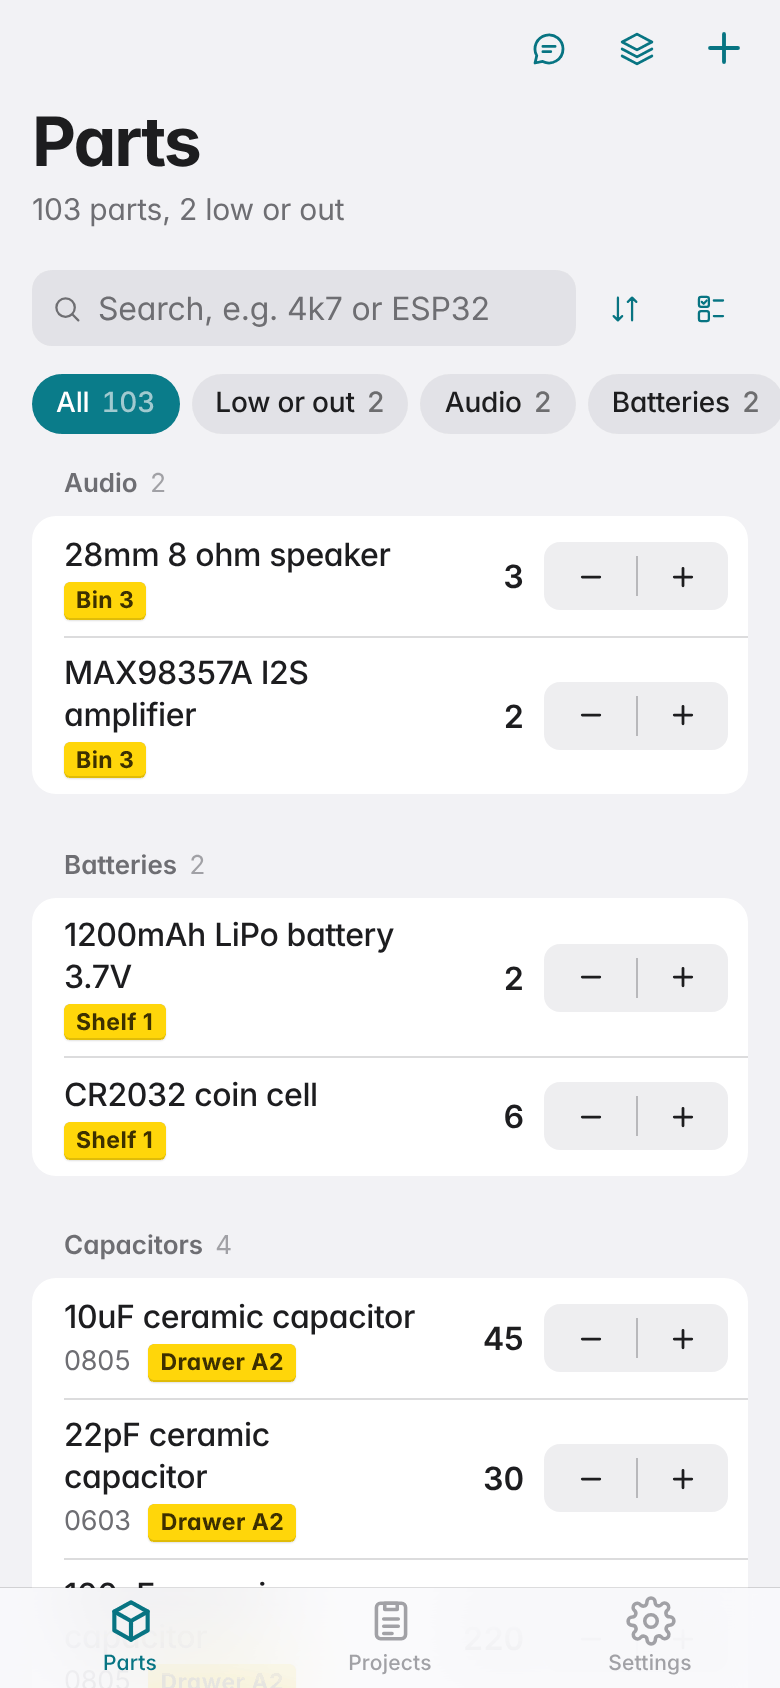
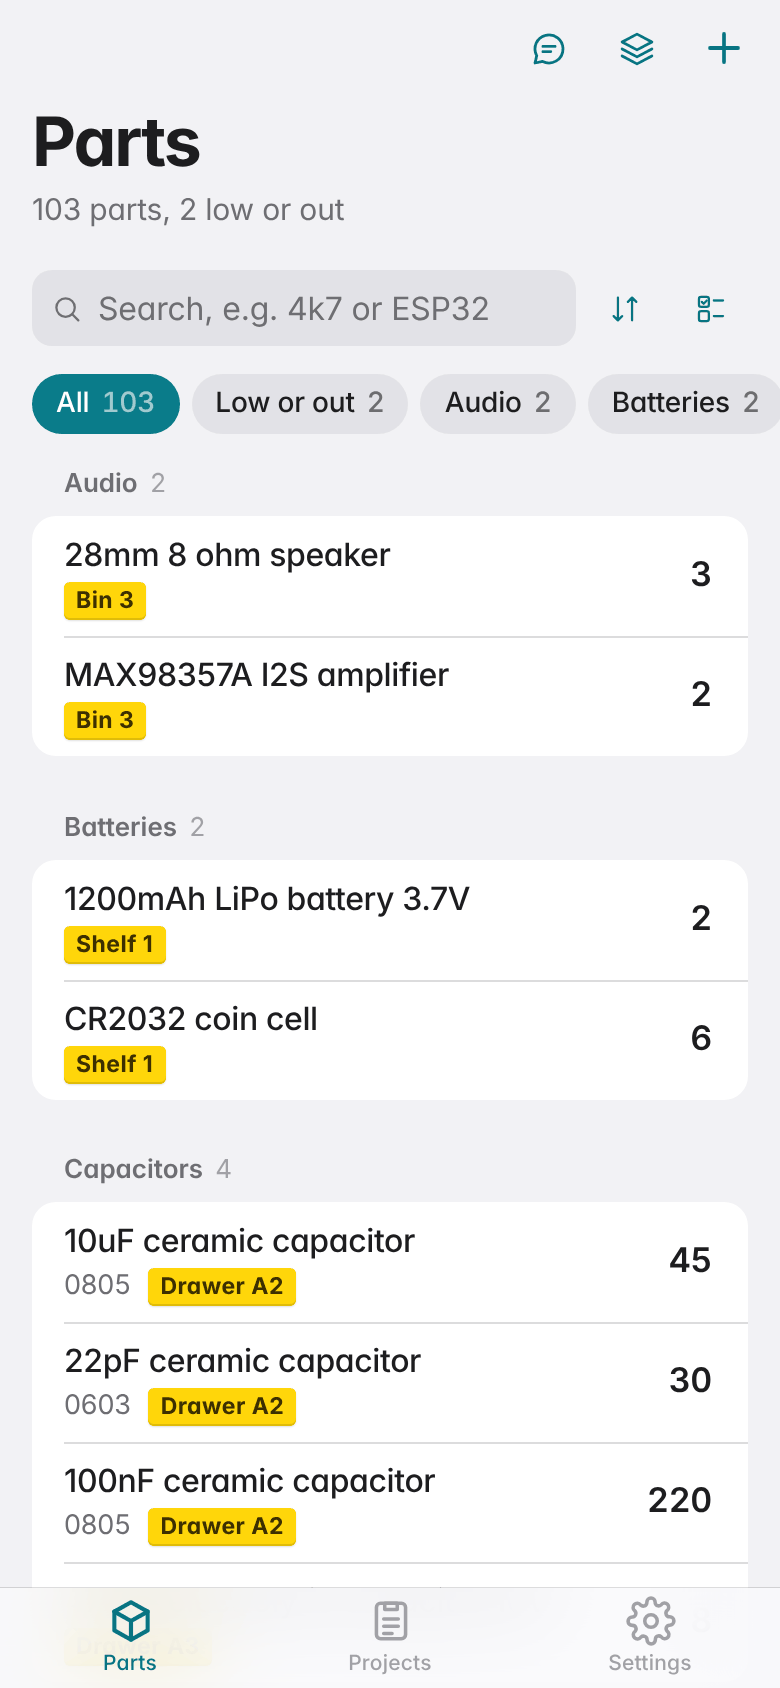
Parts list: just the number, click to edit
The −/+ steppers are gone from list rows. The amount is a plain number
that turns into a field when clicked; + and − still nudge a focused row.
Steppers stay in the part editor and project builds.

Claude-Session: https://claude.ai/code/session_013ungtXkqMKRvGF4Tp6RAD4

diff --git a/app/public/css/app.css b/app/public/css/app.css
@@ -491,6 +491,16 @@ body.scrolled .toolbar { background: var(--bar); backdrop-filter: saturate(1.8) 
 }
 @media (max-width: 420px) { .stepper-value { width: 44px; } }
 
+/* In the parts list the amount is just a number you can click to edit. */
+.stepper-bare .stepper-value {
+  width: auto; min-width: 44px; max-width: 96px; field-sizing: content;
+  height: 32px; padding: 0 8px; border-radius: 8px;
+  cursor: text; transition: background-color 0.12s, box-shadow 0.12s;
+}
+.stepper-bare .stepper-value:hover { background: var(--fill); }
+.stepper-bare .stepper-value:focus { min-width: 64px; text-align: right; }
+@media (max-width: 759px) { .stepper-bare .stepper-value { font-size: 17px; height: 36px; } }
+
 /* Rough amounts: a pop-up button. */
 .level-pill {
   display: inline-flex; align-items: center; gap: 6px;
@@ -965,7 +975,7 @@ dialog.sheet.closing::backdrop { animation: fade-out 0.16s ease-in forwards; }
 }
 .row-check .icon { width: 13px; height: 13px; stroke-width: 3; }
 .selecting .row-check { display: grid; }
-.selecting .part-qty .stepper, .selecting .part-qty .level-pill { pointer-events: none; opacity: 0.45; }
+.selecting .part-qty .stepper, .selecting .part-qty .level-pill { pointer-events: none; opacity: 0.5; }
 .selecting .part-row { user-select: none; -webkit-user-select: none; }
 .part-row.is-selected { background: var(--accent-soft); }
 .part-row.is-selected .row-check { background: var(--accent); box-shadow: none; color: var(--accent-ink); }

diff --git a/app/public/js/lib.js b/app/public/js/lib.js
@@ -339,7 +339,7 @@ export function money(n, currency = '$') {
 const fmtNum = n => String(Math.round(Number(n) * 1000) / 1000);
 
 /** Quantity stepper: [−] [ n ] [+]. Calls onDelta(delta) or onSet(value). */
-export function stepper({ value, onDelta, onSet, label = 'Quantity', size = '' }) {
+export function stepper({ value, onDelta, onSet, label = 'Quantity', size = '', buttons = true }) {
   const out = h('input.stepper-value', {
     type: 'text', inputmode: 'decimal', value: fmtNum(value), 'aria-label': label, autocomplete: 'off',
     onfocus: e => e.target.select(),
@@ -358,7 +358,9 @@ export function stepper({ value, onDelta, onSet, label = 'Quantity', size = '' }
     type: 'button', 'aria-label': `${name} one`, tabindex: '-1',
     onclick: e => { e.stopPropagation(); onDelta(d); },
   }, icon(ic));
-  const el = h(`div.stepper${size ? `.stepper-${size}` : ''}`, { onclick: e => e.stopPropagation() }, btn(-1, 'minus', 'Remove'), out, btn(1, 'plus', 'Add'));
+  const el = buttons
+    ? h(`div.stepper${size ? `.stepper-${size}` : ''}`, { onclick: e => e.stopPropagation() }, btn(-1, 'minus', 'Remove'), out, btn(1, 'plus', 'Add'))
+    : h('div.stepper.stepper-bare', { onclick: e => e.stopPropagation() }, out);
   el.update = v => { value = v; if (document.activeElement !== out) out.value = fmtNum(v); };
   return el;
 }

diff --git a/app/test/e2e/flows.test.js b/app/test/e2e/flows.test.js
@@ -87,8 +87,11 @@ after(async () => {
 test('quantity steppers save, including typed amounts', async () => {
   await goto('#/parts', '.part-row');
   const before_ = (await part('28mm 8 ohm speaker')).qty;
-  await page.click('.part-row .stepper-btn:last-child');
-  await page.click('.part-row .stepper-btn:last-child');
+  // No steppers in the list: + and - on a focused row nudge the amount.
+  assert.equal(await page.$('.part-row .stepper-btn'), null);
+  await page.focus('.part-row');
+  await page.keyboard.press('+');
+  await page.keyboard.press('+');
   await sleep(800);
   assert.equal((await part('28mm 8 ohm speaker')).qty, before_ + 2);
   await page.click('.part-row .stepper-value', { clickCount: 3 });

diff --git a/app/public/js/parts.js b/app/public/js/parts.js
@@ -110,9 +110,11 @@ function amountEl(p) {
       onclick: e => { e.stopPropagation(); levelMenu(e.currentTarget, state.byId.get(p.id)); },
     }, h('span.level-dot'), LEVEL_SHORT[p.stockLevel], icon('updown'));
   }
+  // Just the number: click it to type a new amount. Arrow keys and +/- on the row still nudge it.
   const st = stepper({
     value: p.qty,
-    label: `Quantity of ${p.name}`,
+    buttons: false,
+    label: `Quantity of ${p.name}. Type a new amount.`,
     onDelta: d => changeQty(state.byId.get(p.id), { delta: d }),
     onSet: v => changeQty(state.byId.get(p.id), { set: v }),
   });

diff --git a/CHANGELOG.md b/CHANGELOG.md
@@ -20,7 +20,7 @@
 - Service worker: opens instantly from a saved copy and shows the last data when the server can't be reached
 
 ### Look and feel
-- Redesigned in the spirit of classic Apple tools: system font (San Francisco on Apple devices, Inter elsewhere), inset grouped lists with hairline separators, filled buttons and fields, UIStepper-style quantity controls, green switches, translucent sidebar, menus and toasts
+- Redesigned in the spirit of classic Apple tools: system font (San Francisco on Apple devices, Inter elsewhere), inset grouped lists with hairline separators, filled buttons and fields, UIStepper-style quantity controls in forms (the parts list shows just the number, click to edit), green switches, translucent sidebar, menus and toasts
 - On phones, page actions sit in a translucent top bar and the large title tucks into it as you scroll; the search bar stays pinned
 - Settings laid out as grouped sections, like the Settings app
 

diff --git a/README.md b/README.md
@@ -17,6 +17,7 @@ It is a ground-up rebuild of [Binner](https://github.com/replaysMike/Binner), cu
 
 ## What it does
 
+- **A clean list.** Each part shows its amount on the right. Click the number to type a new one, or focus a row and press + or −.
 - **Fast hand entry.** A part needs a name and an amount. Category and location are optional, autocomplete from what you've used, and carry over to the next part so a run of similar parts goes quickly. Package, part number, notes, link and a low-stock warning sit behind "More details".
 - **Count it, or don't.** Each part is either counted exactly or marked **Plenty**, **Some**, **Running low** or **Out**. Nobody counts 0805 resistors; BOM checks treat Plenty and Some as in stock and list Running low as something to top up.
 - **Units.** Count pieces by default, or metres of wire, grams of filament, spools, packs. Amounts can be fractional.
